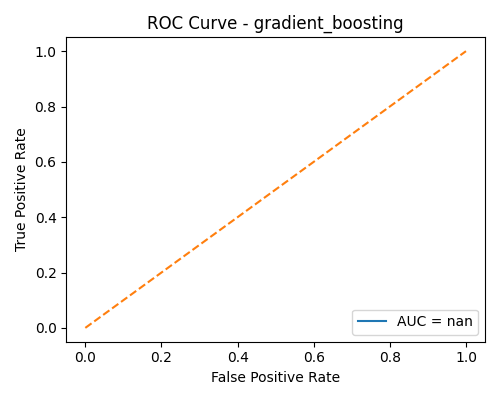
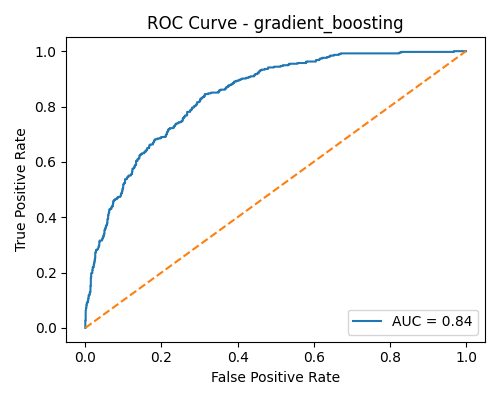
Fix: remove string-based label comparison and standardize on binary 0/1 labels

diff --git a/src/evaluation/evaluate.py b/src/evaluation/evaluate.py
@@ -1,4 +1,5 @@
 import json
+import numpy as np
 from pathlib import Path
 
 from sklearn.metrics import (
@@ -25,16 +26,19 @@ def evaluate_model(
         results_dir (str): base directory to save results
     """
 
+    def to01(y):
+        y = np.asarray(y)
+        if y.dtype.kind in {"U", "S", "O"}:  # string/object
+            return (y == "Yes").astype(int)
+        return y.astype(int)
     # Predictions
     y_pred = model.predict(X_test)
 
     # Probabilities (for ROC-AUC if available)
     if hasattr(model, "predict_proba"):
         y_proba = model.predict_proba(X_test)[:, 1]
-        roc_auc = roc_auc_score(
-            (y_test == "Yes").astype(int),
-            y_proba
-        )
+        roc_auc = roc_auc_score(to01(y_test), y_proba)
+
     else:
         roc_auc = None
 

diff --git a/src/evaluation/plots.py b/src/evaluation/plots.py
@@ -43,7 +43,7 @@ def plot_roc_curve(
     results_dir: str = "../results"
 ):
     fpr, tpr, _ = roc_curve(
-        (y_true == "Yes").astype(int),
+        y_true,
         y_proba
     )
     roc_auc = auc(fpr, tpr)
